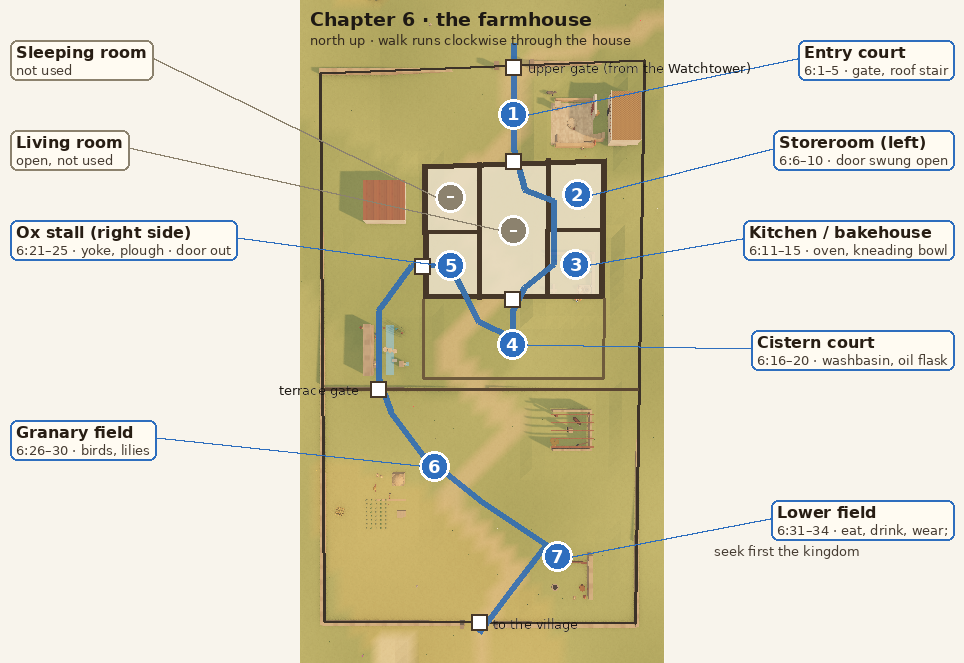
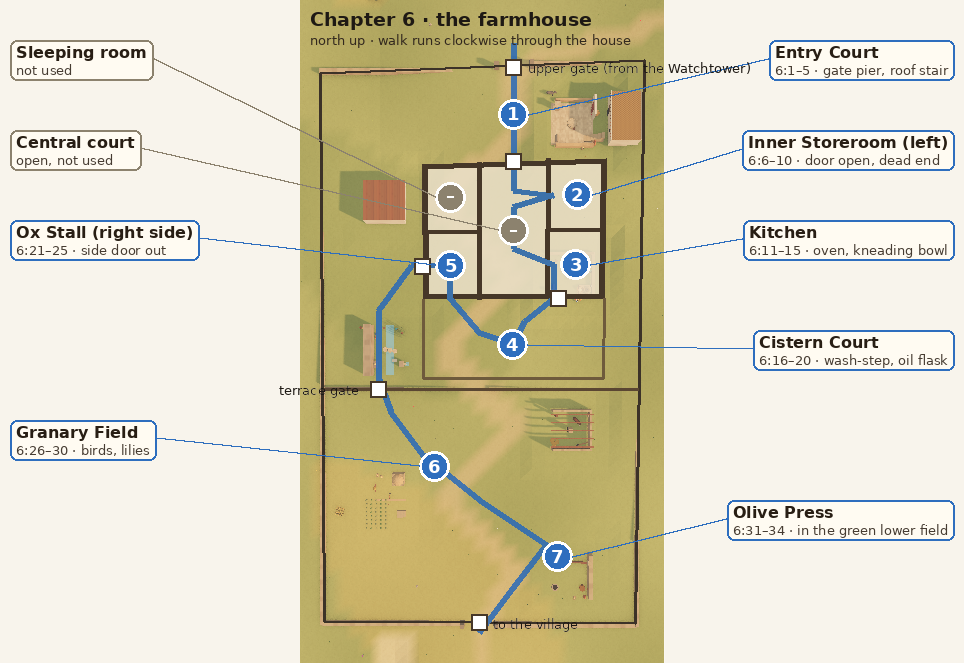
som-ltm: farmhouse plan fixes after critic round 1; chapter 5 changes planned
Claude-Session: https://claude.ai/code/session_011GTaBjBmrRYMxR8CbFEKPF

diff --git a/som-ltm/PLAN.md b/som-ltm/PLAN.md
@@ -19,14 +19,14 @@ You **begin where he sat down** (5:1) and **walk down the mountain** (8:1):
 
 **Compass.** From this hill on the north-west shore the lake lies to the south, and **Hippos**, the town on its flat-topped hill across the lake to the south-east, is visible from the summit (5:14, "a city set on a hill").
 
-**Site plan** (see `refs/plan/layout-map.png`, drawn on a bird's-eye view of the world):
+**Site plan** (see `refs/plan/layout-map.png`, drawn on a bird's-eye view of the world; for chapter 6, `refs/plan/ch6-house-plan.png` supersedes it):
 - **The Summit** is a ridge running east–west on the north side of the site, highest at its east end.
-- **The Farm** lies on the long lake-side slope beyond the ridge's low west end. It starts just below the Watchtower and runs south, down terraces, towards the shore.
+- **The Farm** lies on the gentle, nearly flat ground beyond the ridge's low west end, just below the Watchtower, between the ridge and the shore. Two terraces, marked by walls more than by steps in the ground: the farmhouse above, the fields below (§4).
 - **The Shore Village** strings along the beach at the foot of the farm. A dry wadi comes down the slope beside it.
 - The lake shore has been moved well south of the summit, so that the slope between them holds the whole farm and the village has its own flat strip of beach. The walk goes downhill all the way: summit, farm, shore.
 
 **Routes (method rule 6).** The route takes the form that fits the ground:
-- **On the hillside, the summit:** a switchback trail from the top down. Rooms stand at its turns, alternating sides, and each is lower than the one before.
+- **On the hillside, the summit:** a switchback trail from the top down. Rooms stand at its turns, alternating sides, and each is lower than the one before. A place you naturally walk *through* (the Sheepfold's gate, the Ridge Road) stands on the trail itself instead of beside it; there the viewer stands on the trail facing along it.
 - **In the farmhouse (chapter 6):** the court form, clockwise through the house, then out and down to the fields on the lower terrace (§4).
 - **On the flat beach, the village:** a clockwise loop. You enter facing in, rooms run up your left side, cross at the far end, and come back down your right side.
 
@@ -73,8 +73,8 @@ The outline's first big break (5:20 / 5:21) is the stile itself.
 
 **Route** (rule 6, hillside form). A switchback trail runs down the ridge from the top. Rooms stand at its turns, alternating sides (north = the inland side, south = the lake side), and each is lower than the one before.
 1. **The Seat** is on the very top. The walk opens here, at the Seat's own stop, facing it (§1, Start).
-2. The trail turns down to the north for **the Sheepfold**, then to the south for **the Lookout** on the lake edge, then to the north for **the Threshing Floor**. Its last leg goes down to the stile.
-3. Over the stile, it keeps zigzagging west and down: south for **the Quarry**, north for **the Charcoal Burners' Clearing**, south for **the Bee Bank**, north for **the Shepherds' Camp**, south for **the Ridge Road**, and north for **the Watchtower** at the meadow's low west end.
+2. The trail runs straight on into **the Sheepfold**: the pen stands across the trail, which goes in by the fold's gateway and out by a narrow shepherd's gap in the far wall (owner, 2026-11-18). Then it turns down to the south for **the Lookout** on the lake edge, then to the north for **the Threshing Floor**. Its last leg goes down to the stile.
+3. Over the stile, it keeps zigzagging west and down: south for **the Quarry**, north for **the Charcoal Burners' Clearing**, south for **the Bee Bank**, north for **the Shepherds' Camp**, then along **the Ridge Road**, which the trail itself becomes for that stretch: the room stands astride the road at the fork where the village track branches off (owner, 2026-11-18), and finally north for **the Watchtower** at the meadow's low west end.
 4. The path down to chapter 6 leaves from the Watchtower. It runs west off the ridge's end to the farm's upper gate.
 
 | Room | Verses | Place | 1 near-left | 2 far-left | 3 far-right | 4 near-right | 5 centre | Objects in the room |
@@ -84,12 +84,12 @@ The outline's first big break (5:20 / 5:21) is the stile itself.
 | 5.3 | 5:11–15 | **The Lookout**: a long flat rock under a great terebinth on the south brow of the ridge, looking down the long slope to the lake and across it to Hippos, beside a cucumber field | the near end of the long flat rock (P) | the terebinth's trunk (O) | a heap of cucumbers from the field (O) | the boulder at the brow where the slope drops away (P) | a shepherd's lantern on a stone post, marking the lookout **(v)** (O) | terebinth; lantern post |
 | 5.4 | 5:16–20 | **The Threshing Floor**: a round floor of beaten earth ringed with stones, open to the west wind | a stack of sheaves (O) | the lone thorn tree at the floor's windward side (O) | the winnowing fork (O) | the floor's raised stone edge, worn smooth (P) | the threshing sledge (O) | sheaves; thorn tree; fork; sledge |
 | — | — | **The Stile**: the field wall across the ridge (5:20 / 5:21) | | | | | | |
-| 5.5 | 5:21–25 | **The Quarry**: a small stone quarry cut into the ridge | the left quarry face, striped with chisel marks (P) | a spoil heap of rock chippings at the foot of the face (P) | iron wedges hammered into a crack (O) | wooden shear-legs for lifting stone (O) | a squared building stone on wooden rollers (O) | wedges; shear-legs; building stone on rollers |
+| 5.5 | 5:21–25 | **The Quarry**: a small open quarry worked down into the ridge's bedrock, with no cliff faces (owner, 2026-11-18) | a low shelf of bare bedrock with chisel marks and a half-cut block still attached (P) | a spoil heap of rock chippings at the foot of the face (P) | iron wedges hammered into a crack (O) | wooden shear-legs for lifting stone (O) | a squared building stone on wooden rollers (O) | wedges; shear-legs; building stone on rollers |
 | 5.6 | 5:26–30 | **The Charcoal Burners' Clearing**: a clearing cut in the scrub where wood is burned to charcoal | the smoking charcoal mound under its turf (O) | a row of cut stumps (P) | an axe in a chopping stump (O) | charcoal heaped in rush baskets (O) | the raked ring of ash where the last mound stood (P) | mound; axe and stump; rush baskets |
 | 5.7 | 5:31–35 | **The Bee Bank**: clay-pipe beehives set in a stone bank | the bank's rounded end with a capstone (P) | the stacked hive pipes (O) | the smoker pot (O) | a shallow clay water dish for the bees (O) | the beekeeper's tray of comb (O) | hive pipes; smoker; water dish; tray |
 | 5.8 | 5:36–40 | **The Shepherds' Camp**: a black goat-hair tent | the tent's left guy-rope peg (P) | the tent's open front and its pole (P) | a quern at the tent's right corner (O) | a ground loom pegged out on the grass (O) | the hearth stones (O) | tent; quern; loom; hearth |
 | 5.9 | 5:41–45 | **The Ridge Road**: the road over the hill, where the village track forks off | the culvert stones where the road crosses a gully (P) | a lone carob tree (O) | an old fallen column drum by the road (O) | a cart with a broken wheel, propped on stones (O) | the flat stone at the fork where travellers rest (P) | carob tree; column drum; broken cart; a camel resting beyond the fork |
-| 5.10 | 5:46–48 | **The Watchtower**: a round stone vineyard tower at the meadow's low west end | the tower's wooden ladder (O) | the tower's lookout window (P) | the vine trellis (O) | — | — | ladder; trellis |
+| 5.10 | 5:46–48 | **The Watchtower**: a round stone vineyard tower at the meadow's low west end | the tower's wooden ladder, leaning against the wall up to the window (O) | the tower's lookout window (P) | the vine trellis (O) | — | — | ladder; trellis |
 
 **Outline signposts in chapter 5.** Each stands beside the spot where its section's first verse lives. A sign names the full path when a new higher section begins.
 - *Setting* (5:1–2), with the PDF's own heading for the whole sermon (*Discourse: Ethics*) on the board at the start: 5.1 spot 1.
@@ -108,15 +108,15 @@ The outline's first big break (5:20 / 5:21) is the stile itself.
 
 Redrawn 2026-11-18 at the owner's request: the farm becomes **one house you walk through**, not seven stations around a yard. Map: `refs/plan/ch6-house-plan.png` (north up).
 
-**Layout.** The walled farmstead keeps its place, its two gates and its two terraces on the near-flat ground below the ridge's west end. The **upper terrace** holds a single-storey courtyard farmhouse of fieldstone and plaster, about 36 m east–west by 26 m north–south, with an entry court before it and a small walled cistern court behind it. The **lower terrace** holds the fields and the olive press by the lower gate.
+**Layout.** The walled farmstead keeps its place, its two gates and its two terraces on the near-flat ground below the ridge's west end. The **upper terrace** holds a single-storey **four-room farmhouse** of fieldstone and plaster with a flat earth roof, about 36 m east–west by 26 m north–south: rooms on three sides of an open central court (the "living room" of the owner's sketch, where the family works by day), an entry court before it and a small walled cistern court behind it. The rooms are lit from the open central court and from small windows. The **lower terrace** holds the fields and the olive press by the lower gate.
 
-**Rule 6, court form.** Inside the house the walk runs **clockwise** as seen from above. You come in by the front door on the north side, facing south. The rooms go left (east), back (south), then right (west). Then you go out of the house and down the terrace. The rooms are closed rooms with doorways. Each is seen only from inside, from its viewer point, so no walls need cutting away. Roofs are open beams, as in a real house under repair, so the rooms are lit and the bird's-eye view can see in.
+**Rule 6, court form.** Inside the house the walk runs **clockwise** as seen from above. You come in by the front door on the north side, facing south. The rooms go left (east), back (south), then right (west). Then you go out of the house and down the terrace. The rooms are closed rooms with doorways. Each is seen only from inside, from its viewer point, so no walls need cutting away. **Indoors the viewer stands just inside each room's doorway, its back to the door; spot 1 is the corner left of the door, and the spots run as rule 5 gives.** Interior rooms are about 10 × 10 m, so the viewer is about 4 m from the centre. The bird's-eye view hides the roofs over the house.
 
 1. **6.1 the Entry Court**, outside the front door. You enter it through the upper gate.
-2. Through the front door into the open **living room** (centre of the house, not used for verses). The first doorway on your **left** is **6.2 the Inner Storeroom**, its door standing open.
-3. Through the storeroom's back doorway into the room behind it, the back-left (south-east) room, **6.3 the Kitchen**.
-4. From the kitchen back into the living room and out the back door into **6.4 the Cistern Court**, a small walled court behind the house.
-5. Back in by the court's west doorway to the back-right (south-west) room, **6.5 the Ox Stall**. Its own side door on the **right-hand (west) side of the house** leads outside. (The front-right room is the sleeping room, closed, not used.)
+2. Through the front door into the open central court (not used for verses). The first doorway on your **left** is **6.2 the Inner Storeroom**, its door standing open. It is a dead end, a room you go into and shut the door.
+3. Back out to the central court; the next doorway along the left side opens into the back-left (south-east) room, **6.3 the Kitchen**.
+4. The kitchen's back door (where water is fetched) opens into **6.4 the Cistern Court**, a small walled court behind the house.
+5. From the cistern court the west doorway leads into the back-right (south-west) room, **6.5 the Ox Stall**. Its own side door on the **right-hand (west) side of the house** leads outside. (The front-right room is the sleeping room, closed, not used.)
 6. Out of the stall's side door, along the west side, through the terrace gate (moved to the west end of the terrace wall) and down into **6.6 the Granary Field**.
 7. Across the field to **6.7 the Olive Press** in the lower field by the lower gate. From there the lane goes on to the village.
 
@@ -124,15 +124,15 @@ The outline's big break, Focus Internally (6:1–18) / Focus Eternally (6:19–3
 
 | Room | Verses | Place | 1 near-left | 2 far-left | 3 far-right | 4 near-right | 5 centre | Objects in the room |
 | --- | --- | --- | --- | --- | --- | --- | --- | --- |
-| 6.1 | 6:1–5 | **The Entry Court**: the paved court before the front door | the gate's left pier (P) | the curtained front doorway (P) | the stone stair up to the roof (P) | the stone roof-roller (O) | a tall water jar by the door (O) | roof-roller; water jar; a donkey tethered by the gate |
+| 6.1 | 6:1–5 | **The Entry Court**: the paved court before the front door | the gate's left pier (P) | the curtained front doorway (P) | the stone stair up to the roof (P) | the stone roof-roller (O) | a stone manger for the donkey (O) | roof-roller; manger; a donkey tethered by the gate |
 | 6.2 | 6:6–10 | **The Inner Storeroom**: the first room on the left, its door swung back against the wall | the doorway's stone threshold (P) | a row of tall storage jars (O) | bunches of dried herbs from a beam (O) | a plastered wall shelf (P) | a wooden chest (O) | jars; chest |
-| 6.3 | 6:11–15 | **The Kitchen**: the back-left room with the clay oven | the sieve on its hook (O) | the woodpile (O) | the clay oven (O) | the smoke-blackened corner (P) | the kneading bowl with its cloth (O) | sieve; woodpile; oven; kneading bowl; loaves cooling by the oven |
-| 6.4 | 6:16–20 | **The Cistern Court**: a small walled court behind the house | the stone washbasin under the cistern's spout (P) | flask of oil on a ledge **(v)** (O) | a wash-line with a tunic drying (O) | a fig tree shading the court (O) | the cistern mouth with its round stone lid (P) | oil flask; wash-line; fig tree; a linen towel on the basin's rim |
+| 6.3 | 6:11–15 | **The Kitchen**: the back-left room with the clay oven | the sieve on its hook (O) | the woodpile (O) | the clay oven (O) | the smoke-stained corner (P) | the kneading bowl with its cloth (O) | sieve; woodpile; oven; kneading bowl; loaves cooling by the oven |
+| 6.4 | 6:16–20 | **The Cistern Court**: a small walled court behind the house | the plastered wash-step at the cistern's edge (P) | flask of oil on a ledge **(v)** (O) | a wash-line with a tunic drying (O) | a fig tree shading the court (O) | the cistern mouth with its round stone lid (P) | oil flask; wash-line; fig tree; a linen towel on the wash-step |
 | 6.5 | 6:21–25 | **The Ox Stall**: the back-right room; its side door opens outside | the left stall post (P) | the yoke on its peg (O) | the plough (O) | a heap of straw bedding (O) | the roof pillar with its feeding niche (P) | yoke; plough; straw; the ox |
-| 6.6 | 6:26–30 | **The Granary Field**: a stone granary at the edge of the field below the terrace gate | the terrace steps (P) | a patch of lentils (O) | the scarecrow on its pole (O) | the granary door (P) | a hoe left in the furrow (O) | the granary itself; scarecrow pole; (lentils and hoe are loose) |
+| 6.6 | 6:26–30 | **The Granary Field**: a stone granary at the edge of the field below the terrace gate | the terrace steps (P) | a patch of lentils beside a boundary stone (O) | the scarecrow on its pole (O) | the granary door (P) | a hoe left in the furrow (O) | scarecrow; a boundary stone at the field's edge (scenery); the granary building (its door is the spot); lentils and hoe are loose |
 | 6.7 | 6:31–34 | **The Olive Press**: the press in the green lower field, by the lower gate | the crushing stone: a round millstone in its stone bed (O) | the press beam in its wall socket (O) | a stack of rope pulp-baskets (O) | the rock-cut oil collecting pit (P) | — | crushing stone; press beam; the green field and wild flowers around it are backdrop, not spots |
 
-The spots and objects are the ones already built. They move with their rooms. The Spring's spout and flat stones become the cistern court's washbasin and cistern mouth, and its willow becomes a fig tree. The courtyard's cistern lid becomes a water jar, so the cistern appears only once.
+The spots and objects are the ones already built. They move with their rooms. The Spring's spout and flat stones become the cistern court's wash-step and cistern mouth, and its willow becomes a fig tree. The entry court's cistern lid becomes a stone manger, so the cistern appears only once.
 
 **Outline signposts in chapter 6.**
 - *Sanctified Focus › Focus Internally › Public Righteousness* (6:1): 6.1 spot 1.
@@ -200,7 +200,7 @@ Animals, the crowd and loose things are scenery and don't count as objects.
 | Chapter | Objects (O) | Place features (P) |
 | --- | --- | --- |
 | 5 | olive tree · water bag on a stake · stone water trough · oak · shepherd's crook · terebinth · heap of cucumbers · lantern post (v) · sheaves · winnowing fork · thorn tree · threshing sledge · iron wedges · shear-legs · squared building stone on rollers · charcoal mound · axe and chopping stump · rush baskets of charcoal · hive pipes · smoker pot · bees' water dish · tray of comb · quern · ground loom · hearth stones · goat-hair tent · carob tree · fallen column drum · broken cart · tower ladder · vine trellis | limestone pavement · split boulder · seat-rock · fold gateway · slab-roofed corner · long flat rock · brow boulder · worn floor edge · chisel-marked face · spoil heap · cut stumps · ash ring · capped bank end · guy-rope peg · tent front · gully culvert · resting stone at the fork · tower lookout window · the stile: threshold slab, gatepost and white-topped cairn |
-| 6 | roof-roller · cistern lid · storage jars · dried herbs · wooden chest · sieve · woodpile · clay oven · kneading bowl · oil flask (v) · wash-line · willow · linen towel · yoke · plough · straw bedding · lentils · scarecrow · hoe · crushing stone · press beam · pulp baskets | gate pier · curtained doorway · roof stair · storeroom threshold · wall shelf · smoke-stained corner · spout · outflow stones · stall post · feeding niche · terrace steps · granary door · oil collecting pit · lower gate · terrace-wall gate |
+| 6 | roof-roller · stone manger · storage jars · dried herbs · wooden chest · sieve · woodpile · clay oven · kneading bowl · oil flask (v) · wash-line · fig tree · linen towel · yoke · plough · straw bedding · lentils · scarecrow · hoe · crushing stone · press beam · pulp baskets | gate pier · curtained doorway · roof stair · storeroom threshold · wall shelf · smoke-stained corner · wash-step · cistern mouth · stall post · feeding niche · terrace steps · granary door · oil collecting pit · lower gate · terrace gate |
 | 7 | planks · pitch pot · trestle and adze · half-built hull on trestles · salting vat · net · fish basket · mending stone and rope coil · tax table · mounting step · tethering rail · trade bales · almond tree · well with rope and bucket · pruned branches · stone bench · stone mortar · roofing reeds · drying flax · date palm · reed fence | saw pit · courtyard entrance · narrow jetty · irrigation sluice · hewn doorstep · shelf edge · far bank · mud-brick front wall |
 | Scenery | the flock · camel · donkey · ox · mules · the crowd · loaves cooling (6.3) | |
 

diff --git a/som-ltm/INSTRUCTIONS.md b/som-ltm/INSTRUCTIONS.md
@@ -23,3 +23,7 @@ Every instruction from the owner, quoted, in the order it arrived. Re-read befor
 ## 14 — Place 7+ models; chapter 6 as one connected farmhouse
 "Place the models already at 7 or above in their rooms." → Done (seat, fold ×3, road ×2, fisher vat, sand mud-brick wall).
 Chapter 6: make the farm a connected house you walk through. The rooms only need to be seen once you're in them, not from outside. Use the current block structures and props without recreating them: entry → storeroom on the left (door open) → kitchen/bakehouse to its right → open middle living room (unused) → washbasin by the cistern → ox stall on the right-hand side of the house, whose door leads outside → the green field. 6:31–34 is about not being anxious ("what shall we eat, drink, wear", "seek first the kingdom"), not the oven. Redo the plan and map it on the terrain before the plan critic → refs/plan/ch6-house-plan.png.
+
+## 15 — Chapter 6 plan approved; chapter 5 changes
+"I like this plan. For room 7, keep the objects that we can, and make this plan." New workshop models go in the shared library (ltm-engine/objects/som.js).
+Chapter 5: the Sheepfold sits on the path, and you walk in through its gate; the Lookout stays left and the Threshing Floor right. Remove the Quarry's walls (save the code) and keep the rocks. The Ridge Road goes on the path. Lean the Watchtower ladder against the tower.

diff --git a/som-ltm/CRITIC.md b/som-ltm/CRITIC.md
@@ -62,3 +62,9 @@ Judged with the site map. Each round used a fresh critic.
 | --- | --- | --- |
 | 1 | 8.1 (pass) | the terrace wall had been put at the 6:18/19 break; the lake was described as both near and far; repeats at the stile and elsewhere; loose things counted as objects; the wadi and highway were unclear on the map |
 | 2 | **8.2 (pass)** | clerical slips afterwards: the stale build list, the Crown's "no fields" line, a boat too big for its room, the wadi's course |
+
+## Rounds, farmhouse plan (2026-11-18)
+
+| Round | Score | Main points fixed after it |
+| --- | --- | --- |
+| 1 | 8.1 (pass) | stale ledger and map labels; "courtyard house" and "open-beam roofs" contradicted the flat roof; the storeroom was used as a passage; no viewer point inside rooms; near-repeats (water jar / storage jars, washbasin / trough); 6.6's second object; slope vs flat ground |
